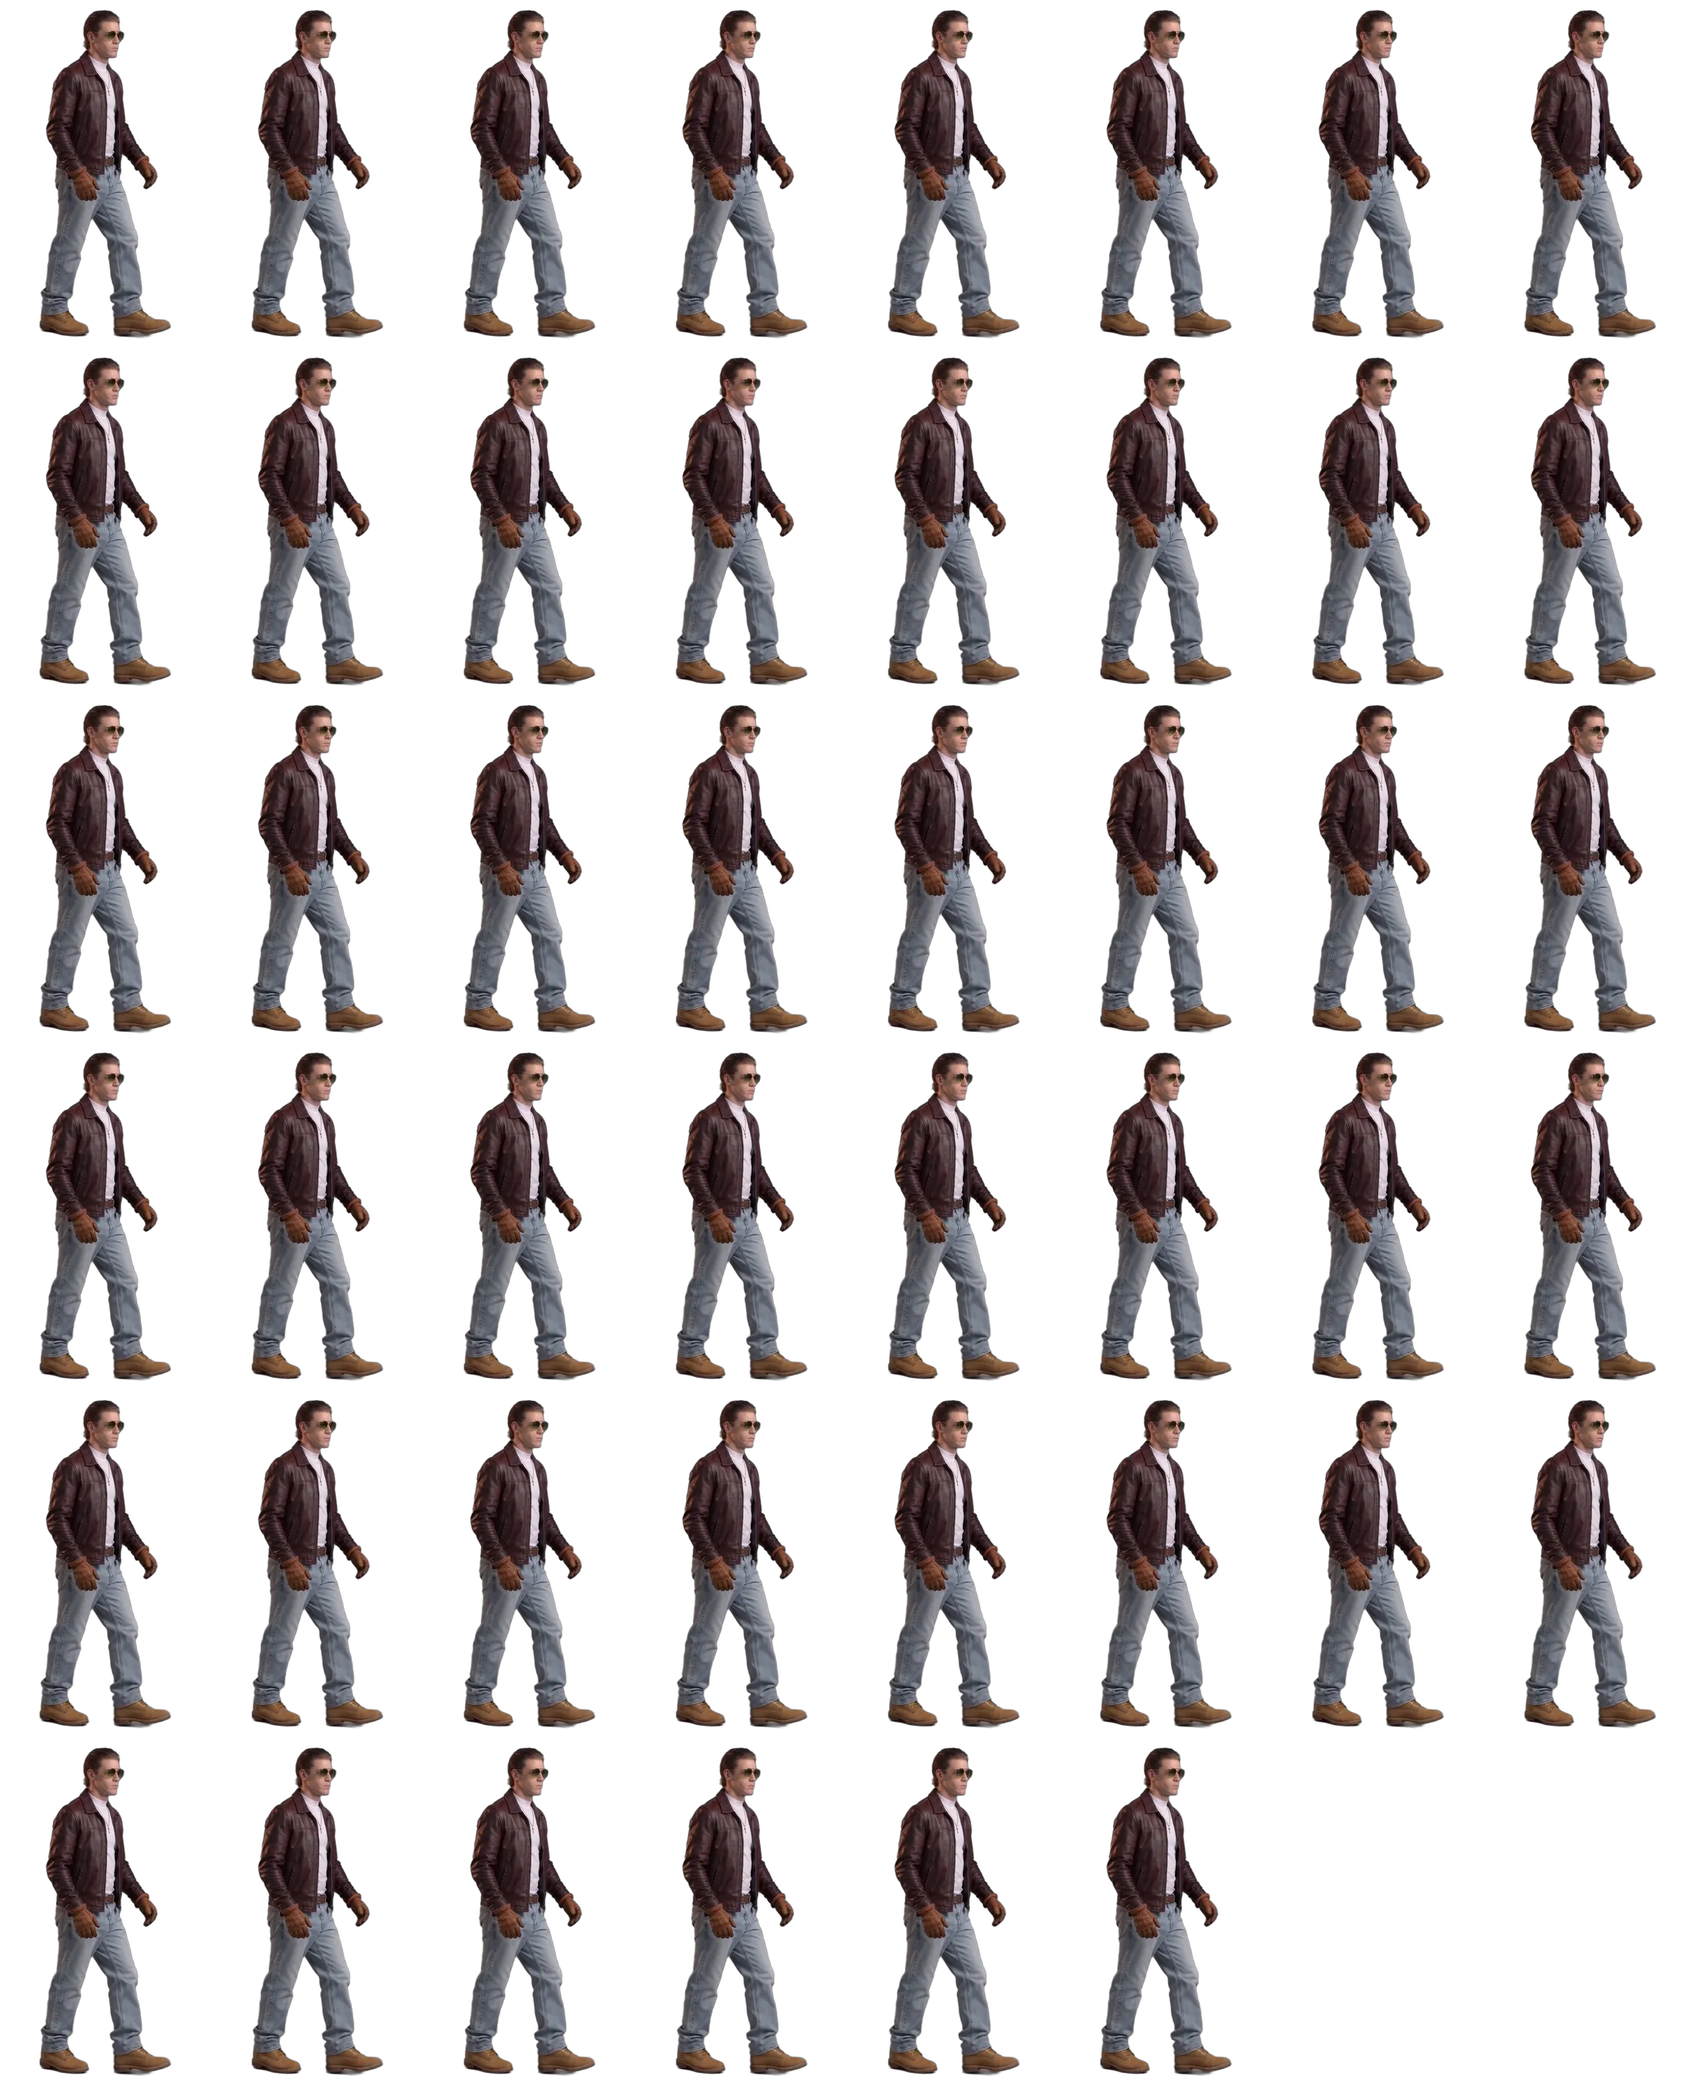
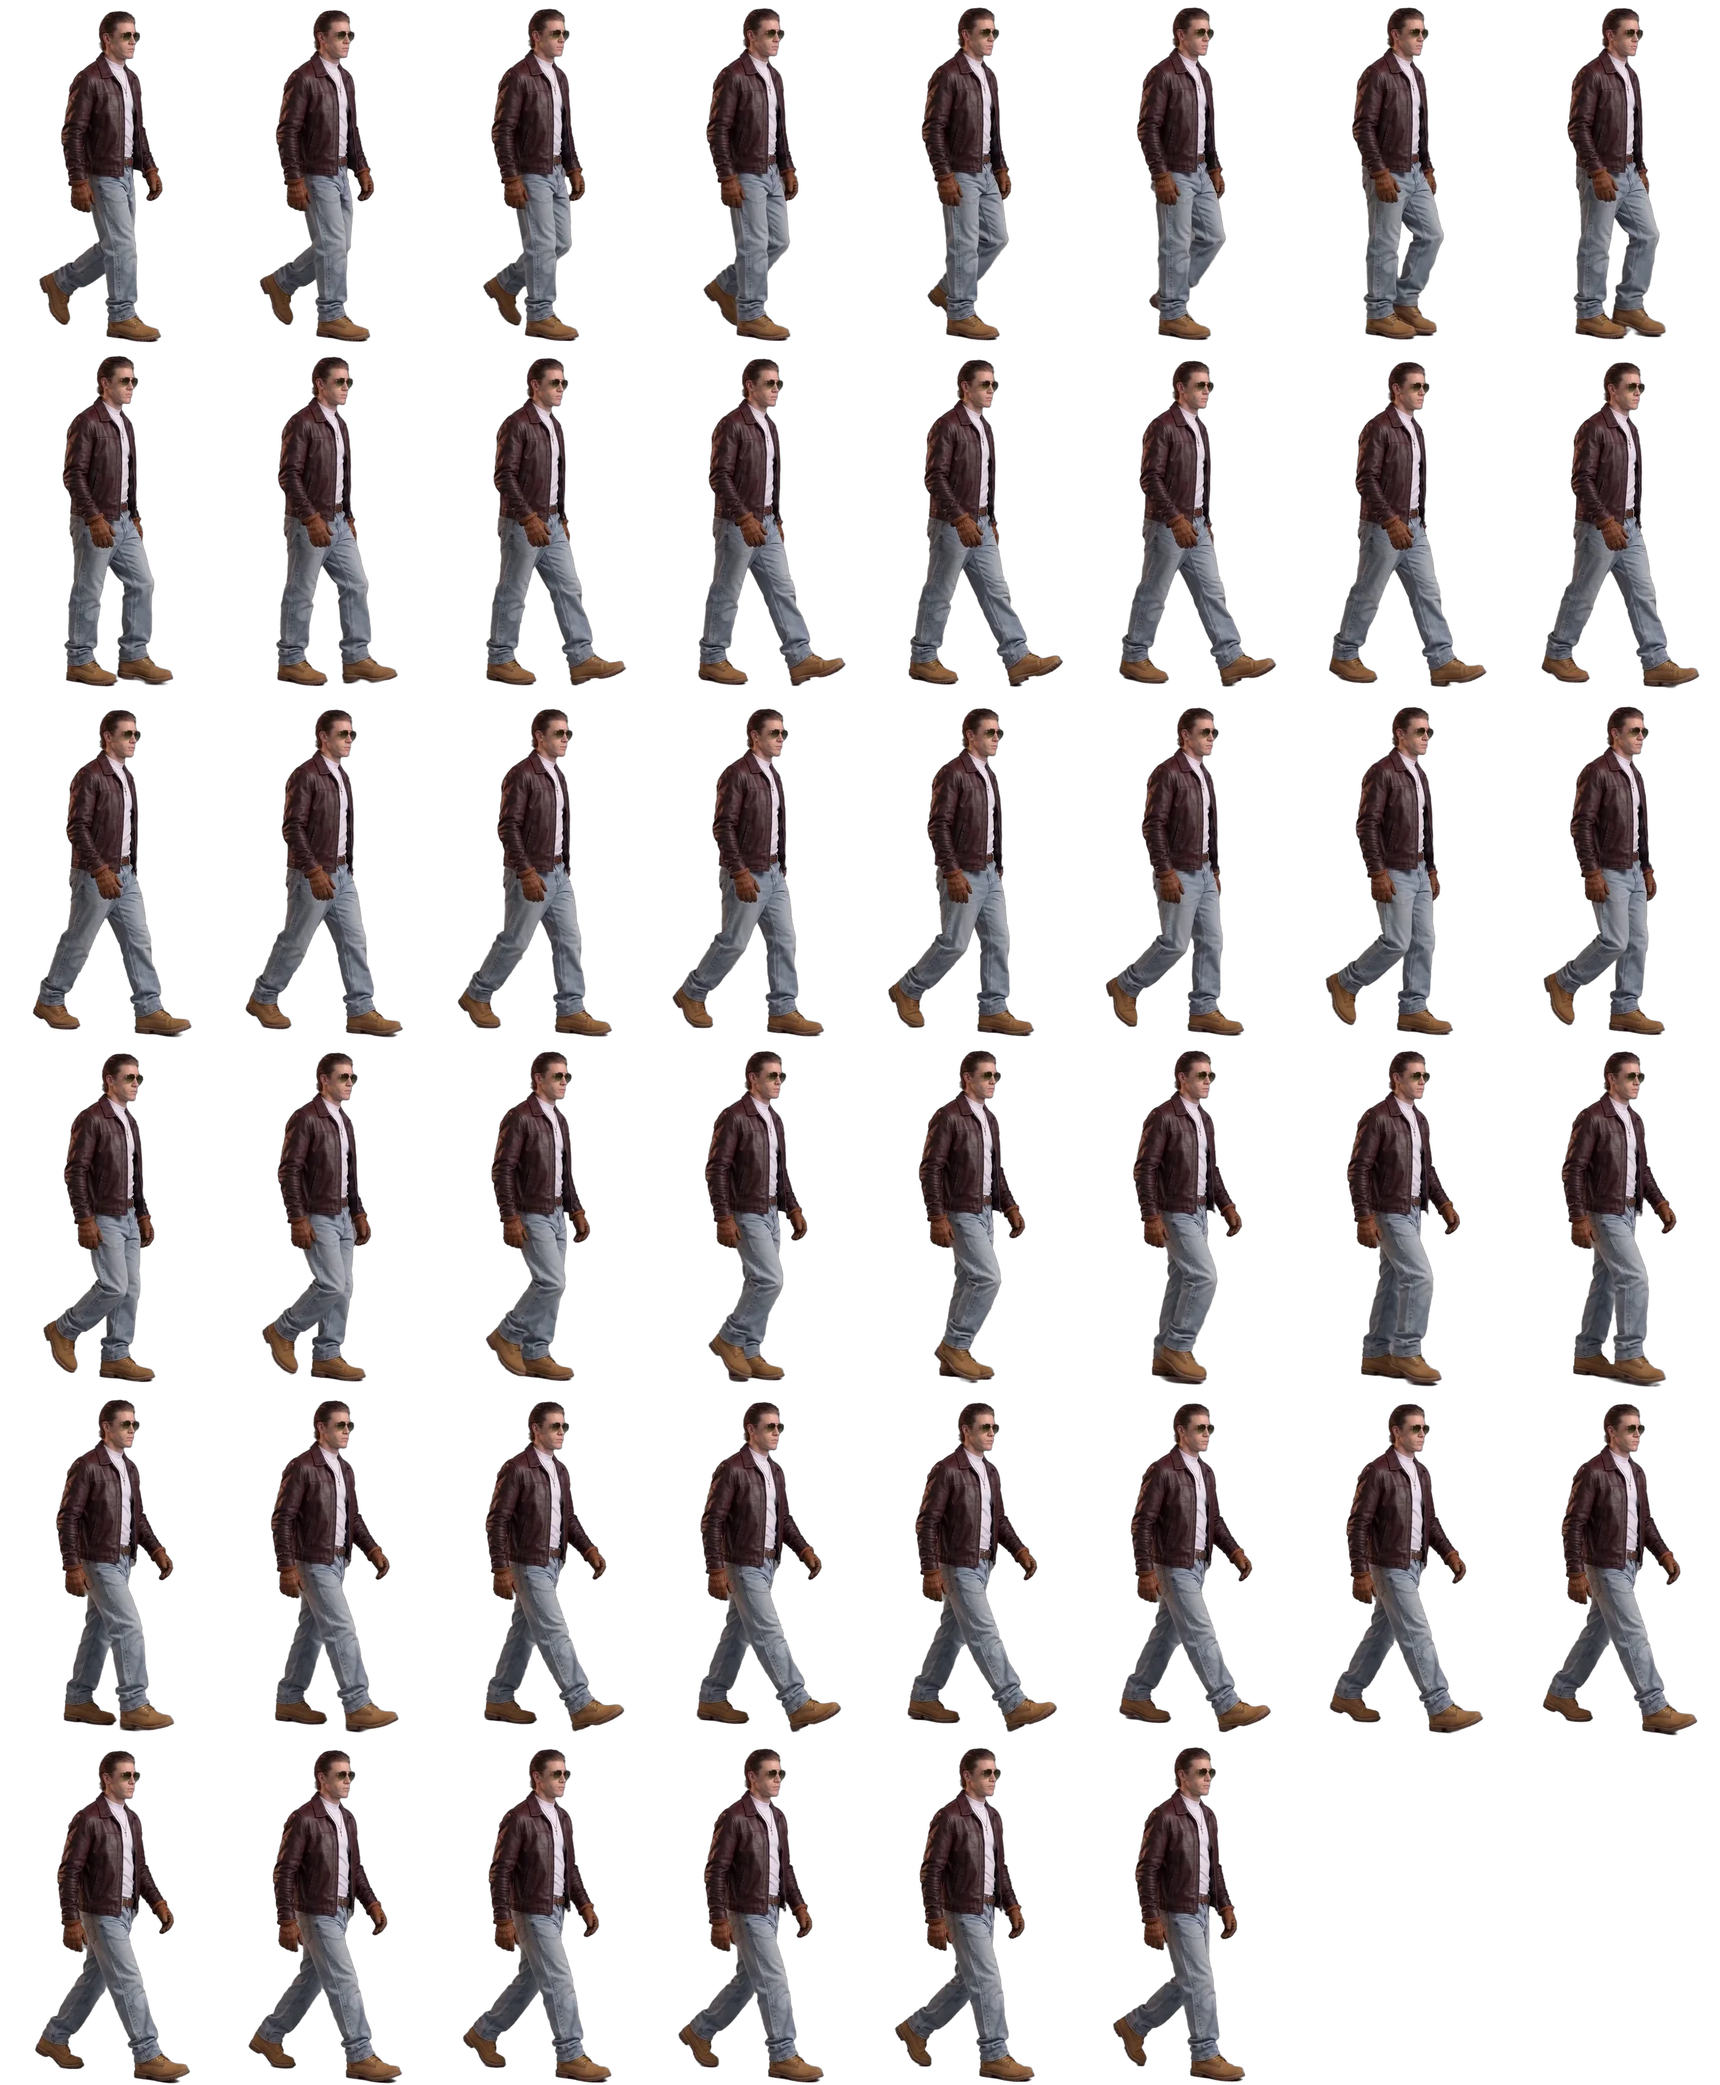
Echte Lauf-Schleife für Szene 2 (46 freigestellte Frames aus dem KI-Video), Übergabe aktualisiert
Claude-Session: https://claude.ai/code/session_01D2SUT7QNTzufPjZDNpCh6m

Changed region(s): [[0.0, 0.0, 0.7474, 1.0], [0.7474, 0.0, 0.872, 0.8438], [0.872, 0.0, 0.9966, 0.8438]]

diff --git a/docs/uebergabe.md b/docs/uebergabe.md
@@ -67,7 +67,13 @@ Eine gepinnte Sektion, Scroll = Zeit, 5 Szenen mit je 1 Einheit auf der Master-T
 | 4 Sundown | Oxblood → Dusk Blue, Silhouette auf Felskante, MUSIC + Player (`content/musik.json`) | Silhouette |
 | 5 Campfire | Nacht, Sterne, Lagerfeuer, Booking-Button, Socials, „Zurück zum Start“ | Feuer wirkt comichaft |
 
-## 5. Nächstes Ziel: 3D-Umbau der Joe-Story
+## 5. 3D-Umbau der Joe-Story
+
+**Stand 13.10.2026: live.** `assets/js/story/stage3d.js` (three.js) rendert die Landschaft hinter den HTML-Texten, alles aus der Story-Zeit t (0–5) berechnet. Ohne WebGL bleibt die SVG-Version (Klasse `is-3d` fehlt dann).
+Daten: `assets/img/plates/` (`scripts/plates.py`: Plates 2k/3k + Tiefenkarte), `assets/img/joe/` (`scripts/lauf-frames.py`: Lauf-Atlas aus j2-walk.mp4, `scripts/joe-billboards.py`: ledge/campfire).
+Offen: Szene 3 zeigt noch das alte Foto (Mugshot fehlt), Feinschliff an Kamera/Licht, alte SVG-Teile aufräumen, dann PS.
+
+Ursprünglicher Plan:
 
 Das Konzept bleibt, die Technik wird gewechselt:
 
@@ -99,7 +105,7 @@ Die Generierung läuft **getrennt in einer lokalen Claude-Code-Sitzung auf dem M
 | `j3-ledge.png` | Joe von hinten, Gegenlicht, dunkler Hintergrund | Szene 4 auf der Felskante |
 | `j4-campfire.png` | Joe sitzend auf Baumstamm, Licht von unten, schwarzer Hintergrund | Szene 5 am Feuer |
 
-**Status:** noch nicht geliefert. Higgsfield-Guthaben bei Übergabe: 250 Credits.
+**Status:** geliefert und eingebaut (13.10.2026). Job-IDs/Credits fehlen noch in `assets/gen/joe/README.md`.
 
 **Joes Look:** Oxblood-Lederjacke, weißes T-Shirt, kleines Kreuz an Kugelkette, hell gewaschene 501, Western-Gürtel, hellbraune Boots, Handschuhe oder Hände in den Taschen. Pilotenbrille nur in Szene 2.
 
